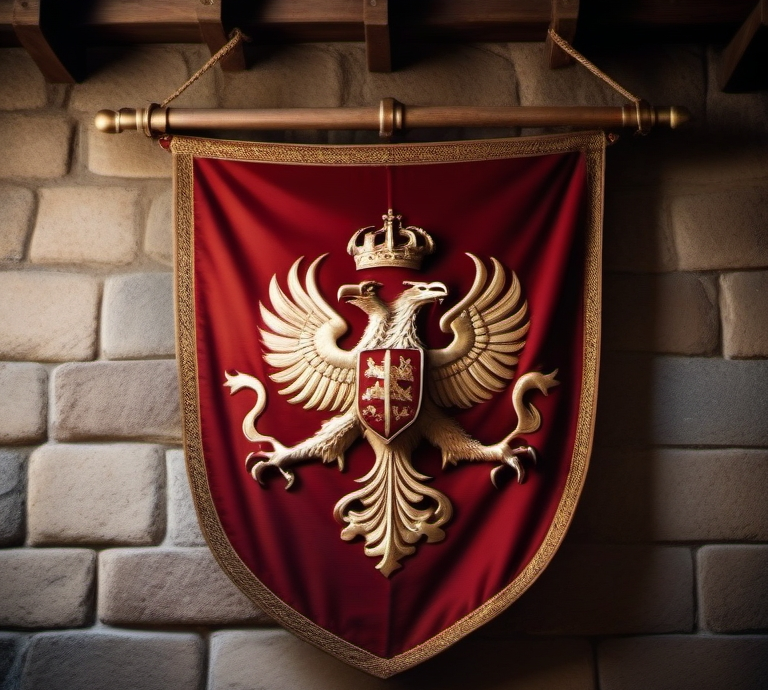
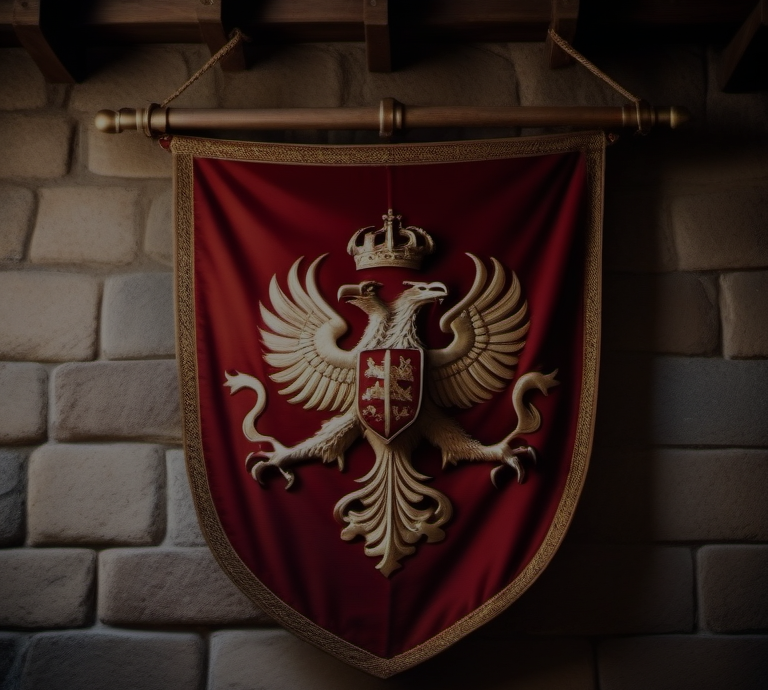
aggiornamento image

diff --git a/GiocoSPACCA/src/application/style.css b/GiocoSPACCA/src/application/style.css
@@ -11,6 +11,7 @@
 	-fx-background-color: -fx-secondary-color;
 	-fx-text-fill: white;
 	
+	
 }
 
 